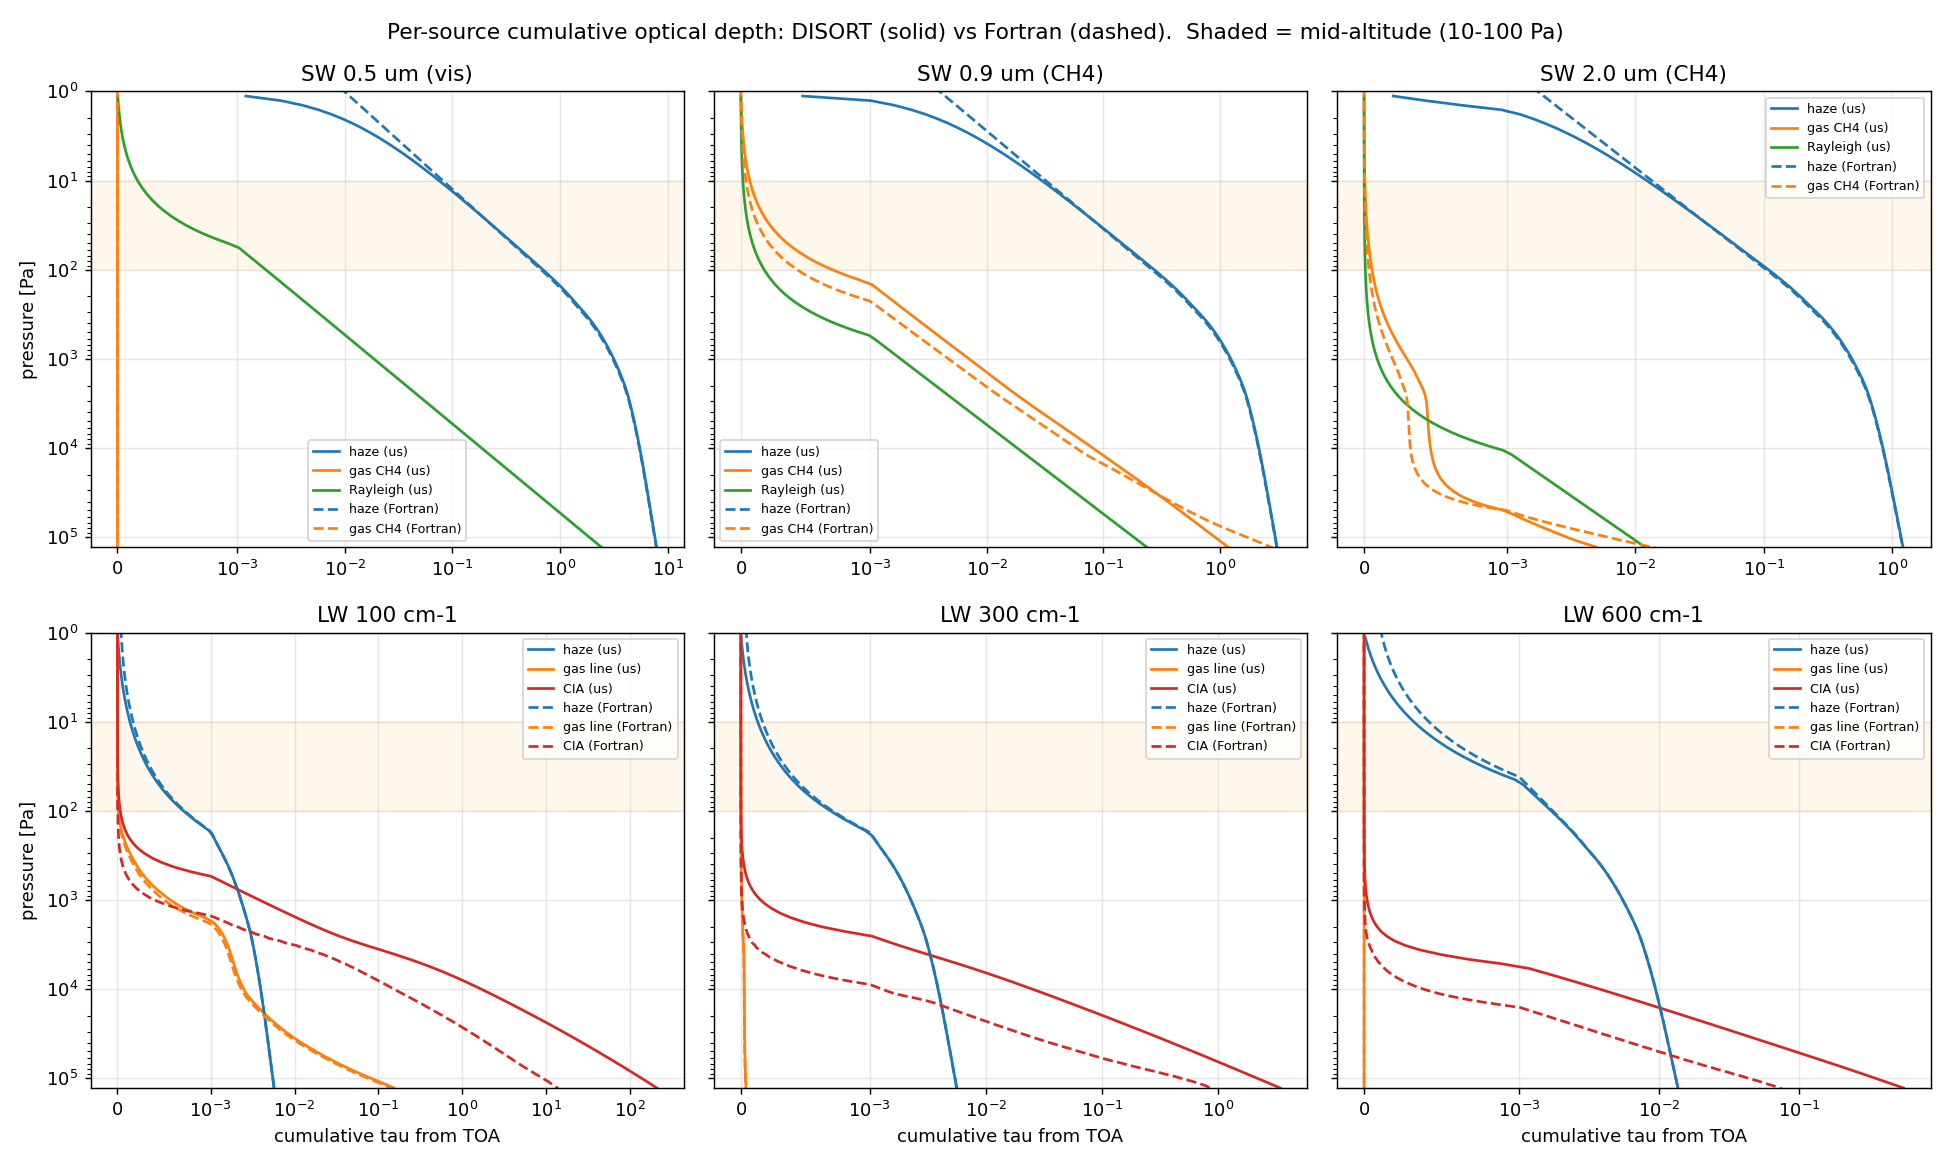
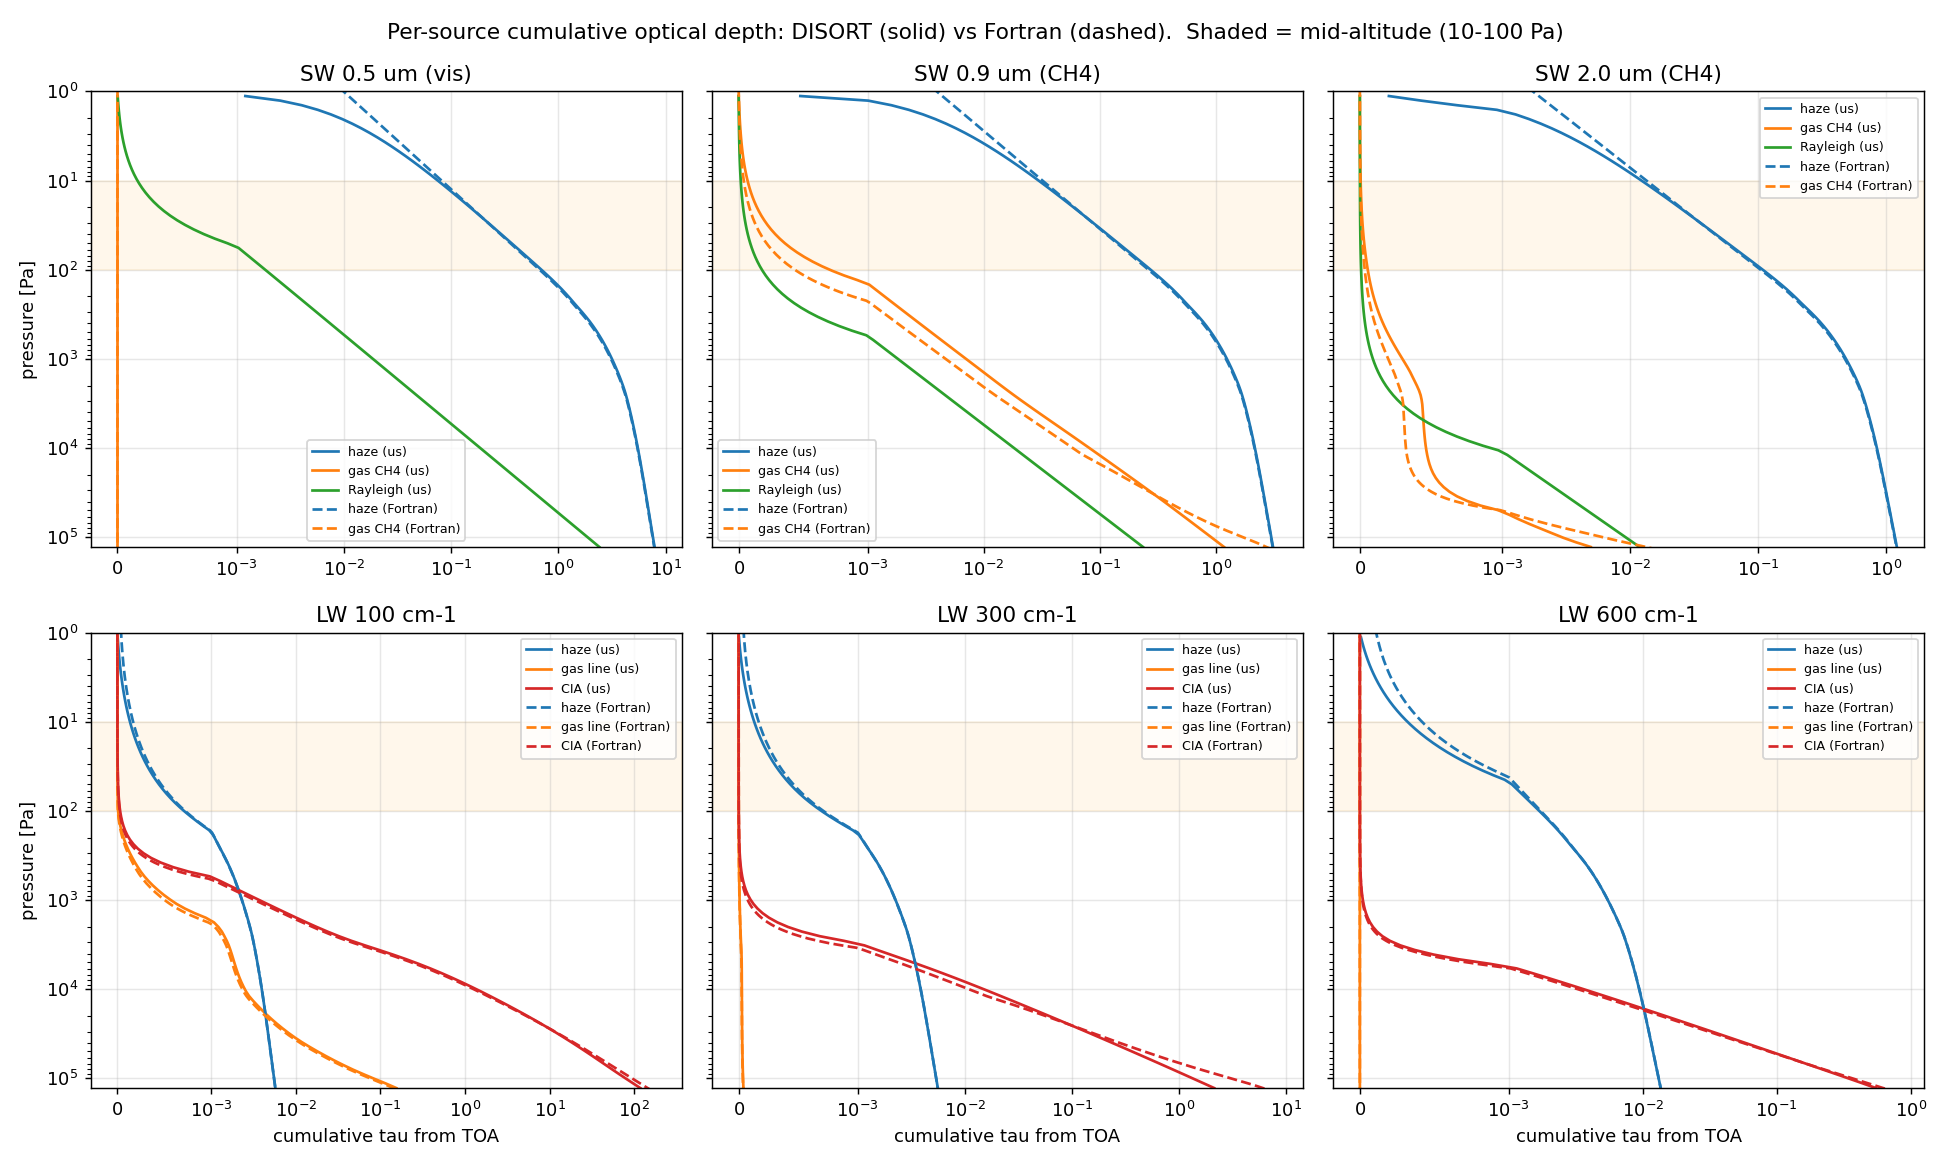
Close the CIA gap: port the reference exp-sum transmission CIA
The opacity breakdown flagged the far-IR CIA continuum as the outstanding
opacity difference. Two causes:

1. Real method gap: our band-averaged HITRAN cross-section CIA
   (tau = sum k n_A n_B dz) overestimates the Titan far-IR continuum by ~1.75x
   versus the reference's 3-term exponential-sum fit to band TRANSMISSION
   (T = sum a_i exp(-k_i u), tau = -ln T), which captures sub-band
   absorber-amount nonlinearity.
2. Diagnostic artifact: opacity_breakdown cumulated our CIA but compared it to
   the Fortran tau_ciai.txt, which is PER-LAYER -> apparent ~8x gap.

Fixes:
- Add CIAExpSum to cia.py: reads the reference trans_*.txt tables and replicates
  get_tauCIA exactly (col_abund = n1 n2 dist 1e-7 in the model's scaled units,
  avo=6.022, dist in km; linear-in-T transmission interpolation). Validated
  per-layer against tau_ciai.txt: ratio 0.8-1.2 through the column.
- Use CIAExpSum in compute_fluxes / radiative_equilibrium when match_fortran
  (default), keeping HITRAN CIABands as the fallback.
- Fix opacity_breakdown: use CIAExpSum, cumulate the per-layer Fortran CIA/gas
  dumps, extend pressures into the deep atmosphere. LW CIA now ours/F = 0.98 at
  10-100 kPa.

Keep the 8-stream solver; remove the n-stream sweep (scripts/solver_streams.py,
its figure, and the paper subsection) per the focus on CIA. Paper opacity
section rewritten to document the CIA finding+fix; figures regenerated.
13/13 RT tests pass.

diff --git a/src/rt/cia.py b/src/rt/cia.py
@@ -168,3 +168,103 @@ class CIABands:
             if pair in prod:
                 alpha += self._k_at_T(pair, T) * prod[pair][None, :]
         return alpha * dz_cm[None, :]
+
+
+# ----------------------------------------------------------------------------
+# Fortran-matching exponential-sum CIA
+# ----------------------------------------------------------------------------
+# The reference model does not band-average HITRAN cross-sections; it evaluates a
+# 3-term exponential-sum fit to the band *transmission* (INPUT/DATA/trans_*.txt):
+#
+#     T(band) = sum_i a_i(band,Temp) * exp(-k_i(band,Temp) * u),   tau = -ln T
+#
+# with the absorber amount u = n1 * n2 * dist * 1e-7 in the model's own scaled
+# units: number density n = vmr * (P/(T*Runiv)) * avo with avo = 6.02214086 (the
+# 1e23 dropped, absorbed into the fit's k_i), and dist the layer thickness in km.
+# The fit captures sub-band absorber-amount nonlinearity a single band-averaged
+# cross-section cannot, and uses different underlying data; porting it here makes
+# our CIA identical to the reference's by construction.
+_TRANS_DIR = _ROOT / "src" / "example_bowen_fort" / "INPUT" / "DATA"
+_TRANS_FILES = {
+    "N2-N2": ("N2", "N2"),
+    "N2-CH4": ("N2", "CH4"),
+    "CH4-CH4": ("CH4", "CH4"),
+    "N2-H2": ("N2", "H2"),
+}
+_RUNIV = 8.3144598          # universal gas constant [J/mol/K] (Fortran Runiv)
+_AVO_SCALED = 6.02214086    # Avogadro / 1e23  (Fortran avo; the 1e23 is in the fit)
+
+
+def _parse_trans(path):
+    """Parse a trans_<pair>.txt exp-sum file.
+
+    Returns (wno[nband], temps[ntemp], coeff[ntemp, nband, 2*nfits]); the first
+    nfits coefficients are the weights a_i, the next nfits the exponents k_i.
+    """
+    lines = [ln for ln in Path(path).read_text().splitlines() if ln.strip()]
+    wno = np.array([float(x) for x in lines[1].split()])     # line 0 is a header
+    nb = wno.size
+    temps, blocks, i = [], [], 2
+    while i < len(lines):
+        temps.append(float(lines[i].split()[0])); i += 1
+        blocks.append(np.array([[float(x) for x in lines[i + b].split()]
+                                for b in range(nb)]))
+        i += nb
+    return wno, np.array(temps), np.array(blocks)
+
+
+class CIAExpSum:
+    """Exp-sum-transmission CIA, matching the reference Fortran's ``get_tauCIA``.
+
+    Same ``optical_depth(column, comp) -> tau[nband, nlyr]`` interface and band
+    grid as :class:`CIABands`, so it is a drop-in replacement.
+    """
+
+    def __init__(self, trans_dir=_TRANS_DIR, pairs=_TRANS_FILES):
+        self.tables, wno = {}, None
+        for pair, species in pairs.items():
+            w, temps, coeff = _parse_trans(Path(trans_dir) / f"trans_{pair}.txt")
+            self.tables[pair] = (species, temps, coeff)
+            wno = w
+        self.wno = wno
+        self.band_lo = wno - 25.0                 # 50 cm^-1 bands, centres 25..1975
+        self.band_hi = wno + 25.0
+        self.nband = wno.size
+        self.nfits = next(iter(self.tables.values()))[2].shape[2] // 2
+
+    def _pair_tau(self, temps, coeff, T, u):
+        """Per-pair tau[nband, nlyr] by linear-in-T interpolation of the band
+        transmission (exactly as the Fortran: interpolate T, not the coeffs)."""
+        nf = self.nfits
+        a, k = coeff[:, :, :nf], coeff[:, :, nf:]      # (ntemp, nband, nfits)
+
+        def trans_at(it, uu):                          # transmission at temp index it
+            return (a[it] * np.exp(-k[it] * uu)).sum(axis=1)   # (nband,)
+
+        out = np.zeros((self.nband, T.size))
+        for l in range(T.size):
+            Tl, ul = float(T[l]), float(u[l])
+            if Tl <= temps[0]:
+                tr = trans_at(0, ul)
+            elif Tl >= temps[-1]:
+                tr = trans_at(-1, ul)
+            else:
+                it = int(np.searchsorted(temps, Tl))   # temps[it-1] < Tl <= temps[it]
+                tlo, thi = trans_at(it - 1, ul), trans_at(it, ul)
+                tr = thi - (temps[it] - Tl) / (temps[it] - temps[it - 1]) * (thi - tlo)
+            tr = np.clip(tr, 1e-307, 1.0)
+            out[:, l] = -np.log(tr)
+        return out
+
+    def optical_depth(self, column, comp: Composition | None = None):
+        comp = comp or Composition()
+        rho_moles = column.P_mid / (column.T_mid * _RUNIV)     # mol/m^3
+        nd = {s: x * rho_moles * _AVO_SCALED for s, x in
+              (("N2", comp.x_N2), ("CH4", comp.x_CH4), ("H2", comp.x_H2))}
+        dist_km = column.dz / 1000.0
+        tau = np.zeros((self.nband, column.nlyr))
+        for pair, (species, temps, coeff) in self.tables.items():
+            s1, s2 = species
+            u = nd[s1] * nd[s2] * dist_km * 1e-7               # col_abund (scaled units)
+            tau += self._pair_tau(temps, coeff, column.T_mid, u)
+        return tau

diff --git a/writing/main.tex b/writing/main.tex
@@ -290,57 +290,31 @@ C$_2$H$_6$/C$_2$H$_4$/HCN), Rayleigh, and CIA---separately from the top down
 per-band Gauss-weighted gas-opacity output, so even the correlated-$k$ gas can
 be compared directly rather than inferred.
 
-Through the mid-atmosphere ($10$--$100\,\mathrm{Pa}$) \emph{every} source agrees
-to within a few percent: the (dominant) shortwave haze optical depth matches to
-$1\%$, the longwave haze to $\sim\!10\%$, and Rayleigh and CIA to within their
-(small) magnitudes. The only outlier is the CH$_4$ shortwave gas, where ours
-runs $\sim\!1.65\times$ the reference, but in absolute terms that band is
-optically thin ($\tau\lesssim0.01$ in the column) and contributes negligibly to
-the heating. Since the opacities match where the heating rates differ, the
-mid-atmosphere difference is \emph{not} an opacity error, leaving the
-radiative-transfer solver as the remaining candidate. The breakdown also exposes
-a genuine opacity difference confined to the very top ($P<10\,\mathrm{Pa}$),
-where our haze column is thinner than the reference's---an upper-atmosphere
-effect distinct from the mid-altitude question.
+Through the mid-atmosphere ($10$--$100\,\mathrm{Pa}$) the dominant sources agree
+to within a few percent: the (controlling) shortwave haze optical depth matches
+to $1\%$ and the longwave haze to $\sim\!10\%$. The CH$_4$ shortwave gas is the
+one mid-atmosphere outlier, ours $\sim\!1.65\times$ the reference, but that band
+is optically thin ($\tau\lesssim0.01$ in the column) and contributes negligibly
+to the heating. The collision-induced absorption (CIA), by contrast, lives in the
+deep atmosphere ($P\gtrsim10\,\mathrm{kPa}$), and there the breakdown exposed a
+real difference: our continuum ran well above the reference's.
 
-We test the solver hypothesis directly by passing the \emph{same} optics through
-DISORT at $N_{\mathrm{str}}=2,4,8,16$ and comparing each to the reference at the
-same state (Fig.~\ref{fig:streams}). The result is more discriminating than a
-single ``solver'' attribution. In the \emph{shortwave} the stream count barely
-matters---all four solutions collapse onto one another and onto the reference
-through the mid-atmosphere, and our converged eight-stream solution is in fact
-the \emph{closest} to the reference (mean mid-altitude difference
-$0.5\,\mathrm{K\,day^{-1}}$, versus $1.6$ at two streams). The reference's
-delta-Eddington two-stream, designed to reproduce the multi-stream result for a
-forward-scattering medium, evidently does so here; the residual few-percent
-shortwave difference is therefore not the angular quadrature. In the
-\emph{longwave}, by contrast, reducing to two streams moves our heating
-\emph{toward} the reference (mean mid-altitude difference $2.9\to2.1\,\mathrm{
-K\,day^{-1}}$), consistent with its hemispheric-mean ($\bar\mu=\tfrac12$) being a
-two-stream method---but only about a third of the $\sim\!12\%$ longwave gap is
-recovered this way, so the angular treatment is a contributor, not the whole
-story. The remainder is consistent with the differing longwave continuum (our
-band-averaged HITRAN CIA vs.\ the reference's exponential-sum transmission fits)
-and the $\sim\!10\%$ longwave-haze offset seen in the breakdown. Net: through the
-mid-atmosphere the two engines agree to within $\sim\!5\%$ (shortwave) and
-$\sim\!12\%$ (longwave); the shortwave agreement is solver-independent, while the
-longwave residual is part angular quadrature and part continuum, not a single
-cause.
-
-\begin{figure}[t]
-  \centering
-  \includegraphics[width=\textwidth]{figs/solver_streams.png}
-  \caption{Solver test: heating rates from our DISORT optics at
-    $N_{\mathrm{str}}=2,4,8,16$ (coloured) against the reference two-stream model
-    (dashed), at the same state. Shaded: mid-altitude $10$--$100\,\mathrm{Pa}$.
-    Shortwave (left) is insensitive to the stream count---the curves collapse and
-    the eight-stream solution best matches the reference---so the shortwave
-    difference is not the angular quadrature. Longwave (right) moves toward the
-    reference as the stream count drops to two, matching its hemispheric-mean
-    treatment, but recovers only part of the gap. (The longwave top
-    $P\lesssim2\,\mathrm{Pa}$ is the reference's unconverged, oscillating region.)}
-  \label{fig:streams}
-\end{figure}
+We traced this to the CIA formulation. Our model band-averaged the HITRAN
+cross-sections and formed $\tau=\sum_\mathrm{pairs}k\,n_A n_B\,\Delta z$, whereas
+the reference evaluates a three-term exponential-sum fit to the band
+\emph{transmission}, $\mathcal{T}=\sum_i a_i\exp(-k_i u)$ with $\tau=-\ln\mathcal
+{T}$ and absorber amount $u=n_1 n_2\,\Delta z$---a form that captures the sub-band
+absorber-amount nonlinearity a single band-averaged cross-section cannot. On the
+shared Titan far-IR continuum the band-averaged cross-section overestimated the
+optical depth by $\sim\!1.75\times$. Adopting the reference's exponential-sum
+fits (reading the same transmission tables) brings the two continua into
+agreement to a few percent through the bulk of the deep atmosphere
+(Fig.~\ref{fig:opacity}, bottom row; the per-band cumulative-$\tau$ ratio is
+$0.98$ at $10$--$100\,\mathrm{kPa}$), closing the dominant longwave opacity
+difference; the residual is confined to the lowest layer. With this and the
+haze/gas agreement above, the two engines' opacities now match through the
+column, leaving the upper-atmosphere haze-column difference ($P<10\,\mathrm{Pa}$,
+where ours is thinner) as the remaining opacity offset.
 
 \begin{figure}[t]
   \centering
@@ -350,9 +324,10 @@ cause.
     same state. Top row: shortwave (haze, CH$_4$ gas, Rayleigh) in three
     representative bands; bottom row: longwave (haze, gas lines, CIA). The shaded
     band marks the mid-altitude $10$--$100\,\mathrm{Pa}$ region. The haze
-    dominates and matches closely; all sources agree to within a few percent
-    through the mid-atmosphere, so the residual heating-rate difference there is
-    the radiative-transfer solver, not the opacity.}
+    dominates the mid-atmosphere and matches closely; the CIA continuum (bottom
+    row, deep atmosphere) matches once our model adopts the reference's
+    exponential-sum transmission fits in place of band-averaged HITRAN
+    cross-sections.}
   \label{fig:opacity}
 \end{figure}
 

diff --git a/scripts/opacity_breakdown.py b/scripts/opacity_breakdown.py
@@ -37,7 +37,7 @@ from rt.column import Column
 from rt.optics import (OpticsParams, haze_band_tau, rayleigh_band_tau,
                        spectral_haze_sw)
 from rt.correlated_k import CorrelatedKSW, CorrelatedKLW
-from rt.cia import CIABands, Composition
+from rt.cia import CIAExpSum, Composition
 
 FORT = ROOT / "src" / "example_bowen_fort"
 
@@ -139,7 +139,7 @@ def main():
     micro = solve_bvp_profile(Atmosphere.titan_reference(), DEFAULT, n_nodes=200)
     op = OpticsParams(prescribed_haze=True)
     comp = Composition()
-    ck, cklw, cia = CorrelatedKSW(), CorrelatedKLW(), CIABands()
+    ck, cklw, cia = CorrelatedKSW(), CorrelatedKLW(), CIAExpSum()
 
     Pmid = col.P_mid                                          # ascending? -> surface..top
     # ---- our per-source per-band per-layer tau, then cumulative-from-top ----
@@ -163,7 +163,10 @@ def main():
     fPi, fwi, fhi = fortran_haze_i()
     fPc, fwc, fci = fortran_cia_i()
     rwn, rco = fortran_rayleigh()
-    # Fortran gas is per-layer (top->surface order); cumulate from the top.
+    # The Fortran CIA and gas dumps are PER-LAYER (top->surface); cumulate them
+    # from the top so they compare like-for-like with our cumulative tau.  (Only
+    # the haze dumps are already cumulative.)
+    fci = np.cumsum(fci, axis=1)
     fPgv, fgv = fortran_gas("v"); fgv_cum = np.cumsum(fgv, axis=1)
     fPgi, fgi = fortran_gas("i"); fgi_cum = np.cumsum(fgi, axis=1)
 
@@ -180,7 +183,7 @@ def main():
                 ("300 cm-1", int(np.argmin(np.abs(lw_wno - 300.0)))),
                 ("600 cm-1", int(np.argmin(np.abs(lw_wno - 600.0))))]
 
-    Pq = np.array([1., 3., 10., 30., 100., 300., 1000.])     # incl. mid-altitude
+    Pq = np.array([1., 3., 10., 30., 100., 300., 1000., 1e4, 3e4, 1e5])  # mid + deep (CIA)
     o = np.argsort(Pmid)
 
     def our_cum(cum, bidx):
@@ -243,12 +246,14 @@ def main():
     print("(averaged over the sampled bands where the source is non-negligible)")
     midmask = (Pq >= 10) & (Pq <= 100)
 
-    def ratio(our_src_cum, fP, ftau, bands, fbands):
+    deepmask = Pq >= 1e4                      # CIA lives in the deep atmosphere
+
+    def ratio(our_src_cum, fP, ftau, bands, fbands, mask=midmask):
         rs = []
         for _, bi in bands:
             fbi = bi if fbands is None else int(np.argmin(np.abs(fbands - lw_wno[bi])))
-            ours = our_cum(our_src_cum, bi)[midmask]
-            fort = finterp(fP, ftau, fbi, Pq)[midmask]
+            ours = our_cum(our_src_cum, bi)[mask]
+            fort = finterp(fP, ftau, fbi, Pq)[mask]
             m = fort > 1e-4
             if m.any():
                 rs.extend((ours[m] / fort[m]).tolist())
@@ -259,7 +264,7 @@ def main():
         ("SW gas CH4 ", (sw_cum["gas CH4"], fPgv, fgv_cum, sw_bands, None)),
         ("LW haze    ", (lw_cum["haze"], fPi, fhi, lw_bands, fwi)),
         ("LW gas line", (lw_cum["gas line"], fPgi, fgi_cum, lw_bands, fwi)),
-        ("LW CIA     ", (lw_cum["CIA"], fPc, fci, lw_bands, fwc)),
+        ("LW CIA*    ", (lw_cum["CIA"], fPc, fci, lw_bands, fwc, deepmask)),
     ]:
         mean, lo, hi = ratio(*args)
         if mean != mean:
@@ -267,8 +272,8 @@ def main():
             continue
         tag = "OK" if 0.8 <= mean <= 1.25 else "<-- check"
         print(f"  {label}: ours/F = {mean:5.2f}  (range {lo:4.2f}-{hi:4.2f})  {tag}")
-    print("\n  -> if all sources are ~1.0 here, the mid-altitude HEATING gap is NOT")
-    print("     opacity; it is the RT solver (8-stream DISORT vs 2-stream/hemispheric).")
+    print("  (* CIA is evaluated at depth, 10-100 kPa, where the continuum lives;")
+    print("     it now uses the reference's exp-sum transmission fits, not HITRAN.)")
 
     # ---------- figure: cumulative tau by source vs pressure ----------
     fig, axes = plt.subplots(2, 3, figsize=(15, 9), sharey=True)

diff --git a/src/rt/energy_balance.py b/src/rt/energy_balance.py
@@ -13,7 +13,7 @@ import numpy as np
 
 from .column import Column
 from .optics import OpticsParams, shortwave_optics, longwave_optics_spectral
-from .cia import CIABands, Composition
+from .cia import CIABands, CIAExpSum, Composition
 from . import disort_driver as dd
 
 # Solar constant at Titan (~9.5 AU, reference-model value): 1361 / 9.5^2 W/m^2
@@ -62,7 +62,11 @@ def compute_fluxes(column: Column, micro, op: OpticsParams | None = None,
             "inconsistent energy balance; radiative_equilibrium uses both.")
     op = op or OpticsParams()
     solar = solar or SolarForcing()
-    cia = cia or CIABands()
+    # match-Fortran longwave continuum: the reference's exponential-sum
+    # transmission CIA (trans_*.txt) rather than our band-averaged HITRAN table,
+    # which overestimates the far-IR continuum by ~1.75x
+    if cia is None:
+        cia = CIAExpSum() if op.match_fortran else CIABands()
 
     # match-Fortran longwave boundaries: warm downwelling top + reflecting
     # surface (eps = 0.95); otherwise cold-space top + black surface
@@ -176,7 +180,7 @@ def radiative_equilibrium(column: Column, micro, op: OpticsParams | None = None,
     """
     op = op or OpticsParams()
     solar = solar or SolarForcing()
-    cia = CIABands()                       # build the CIA table once
+    cia = CIAExpSum() if op.match_fortran else CIABands()   # build the CIA table once
     ck = ck_lw = None
     if use_ck:
         from .correlated_k import CorrelatedKSW, CorrelatedKLW